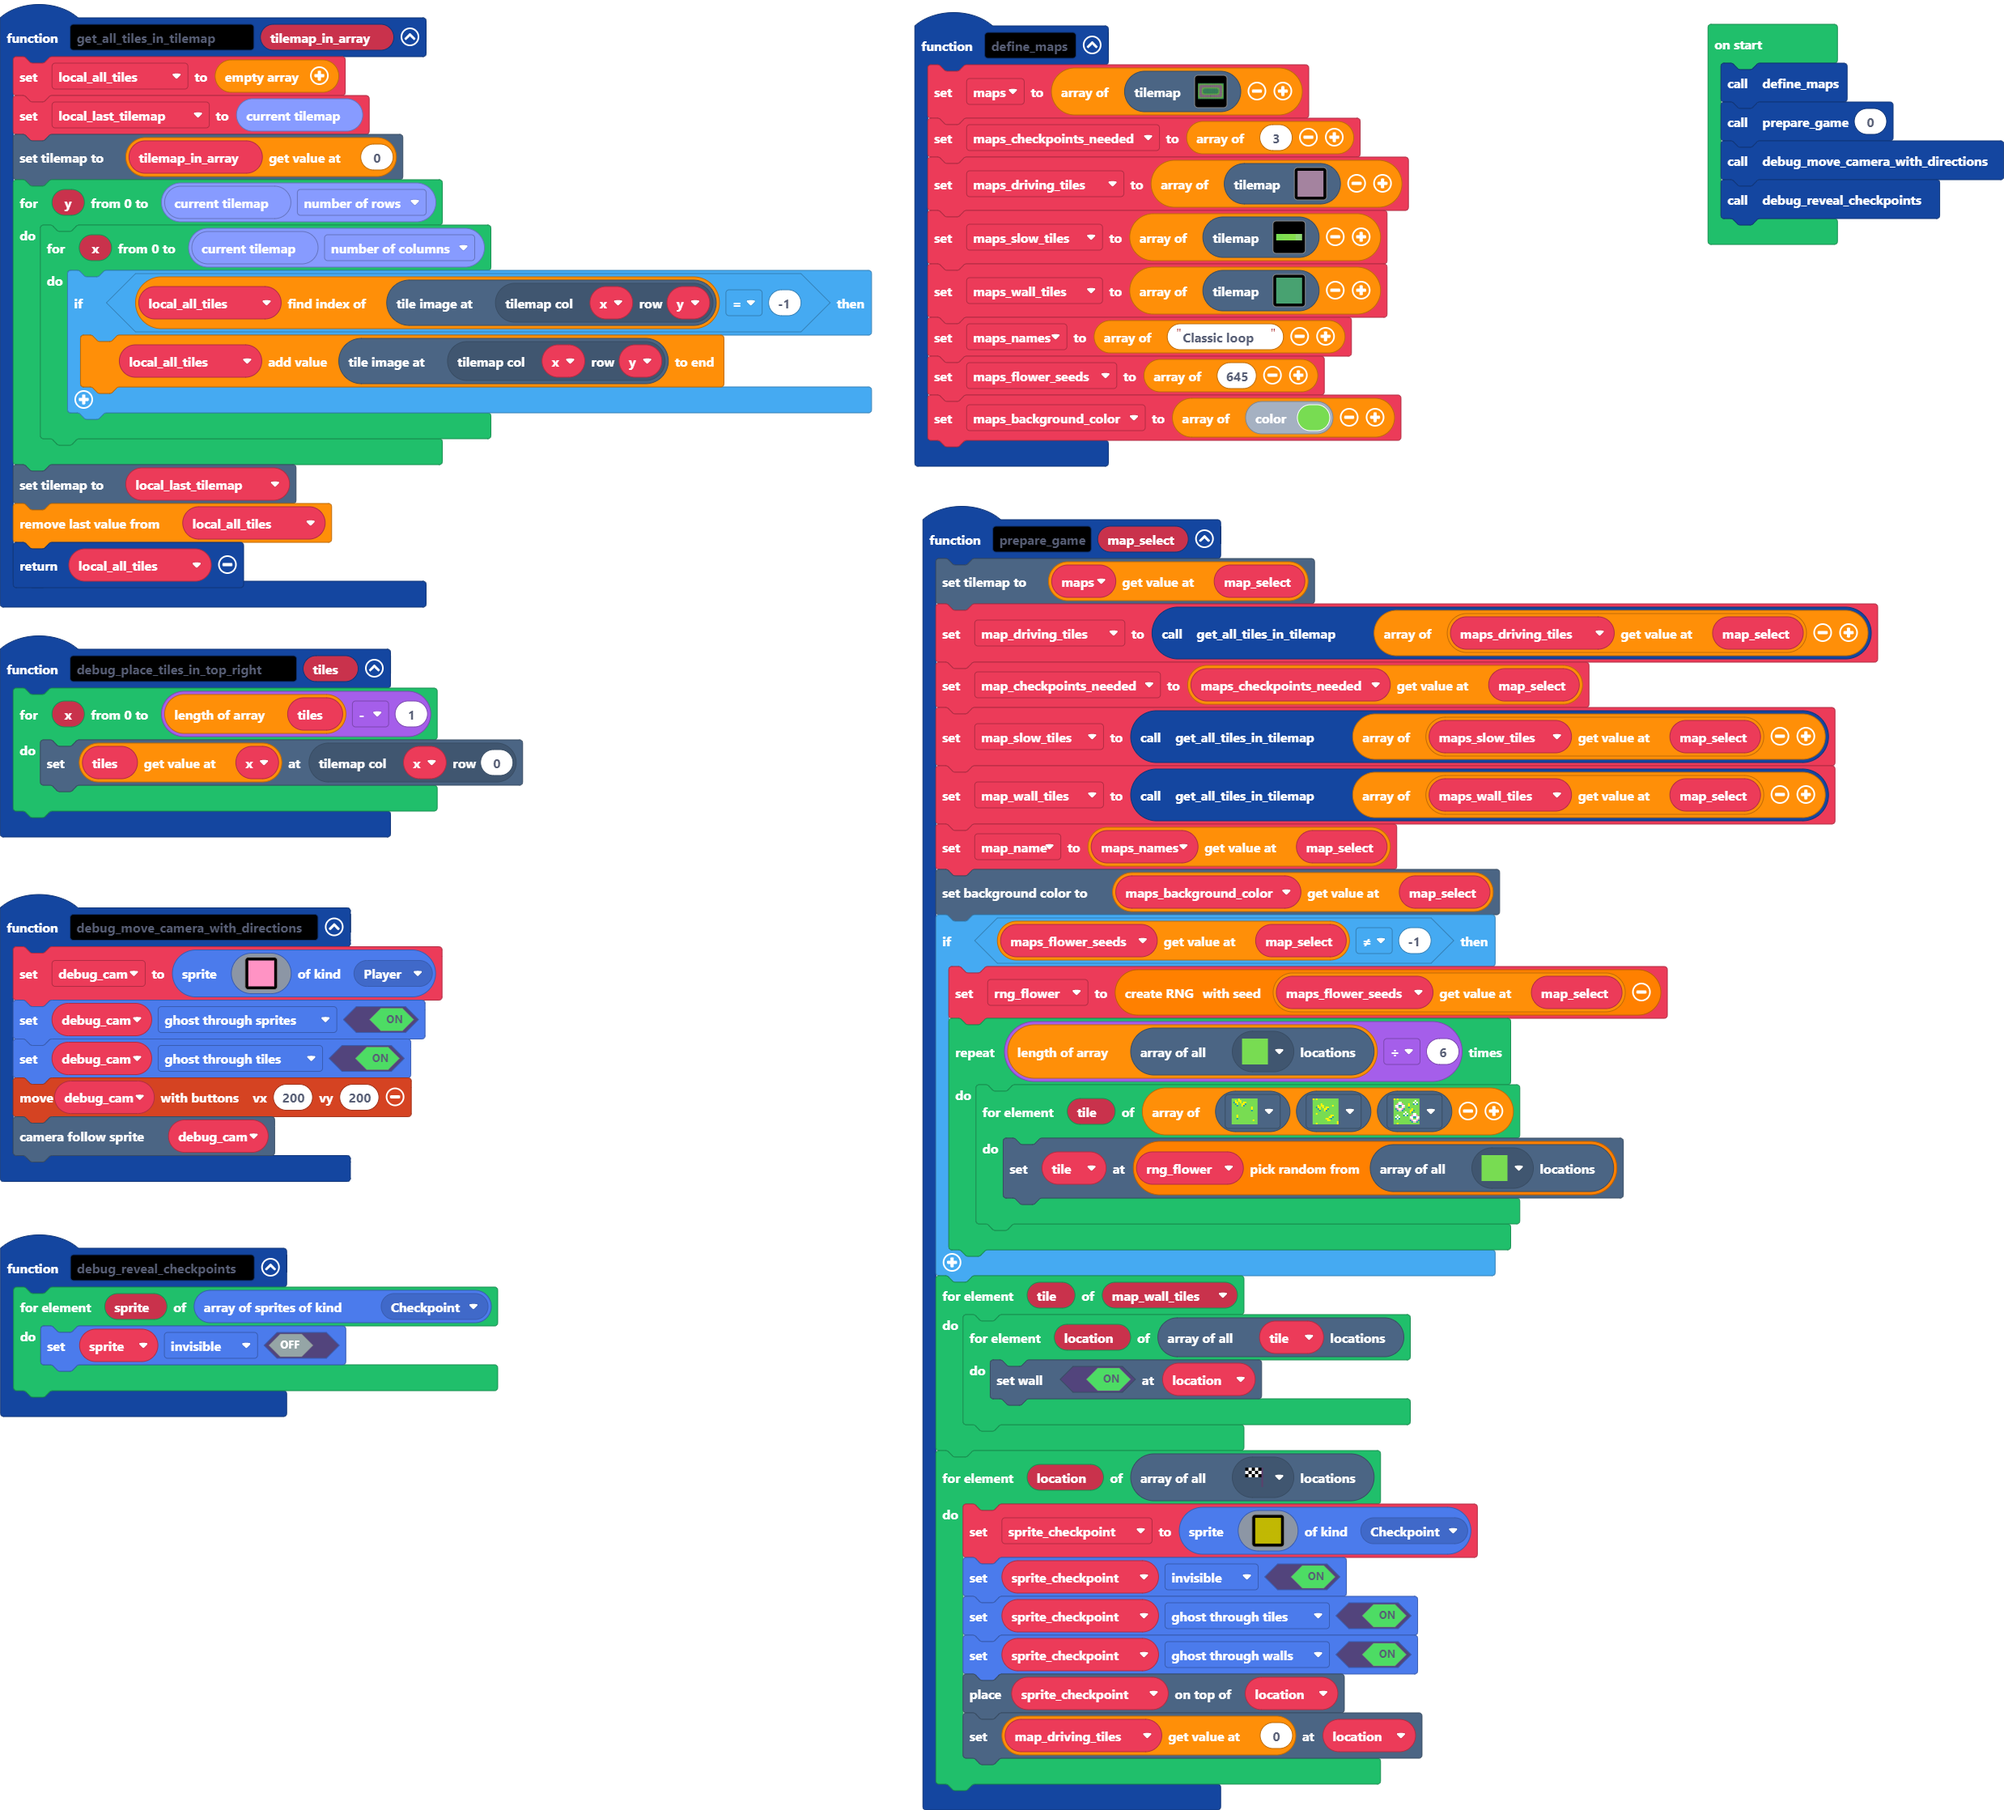
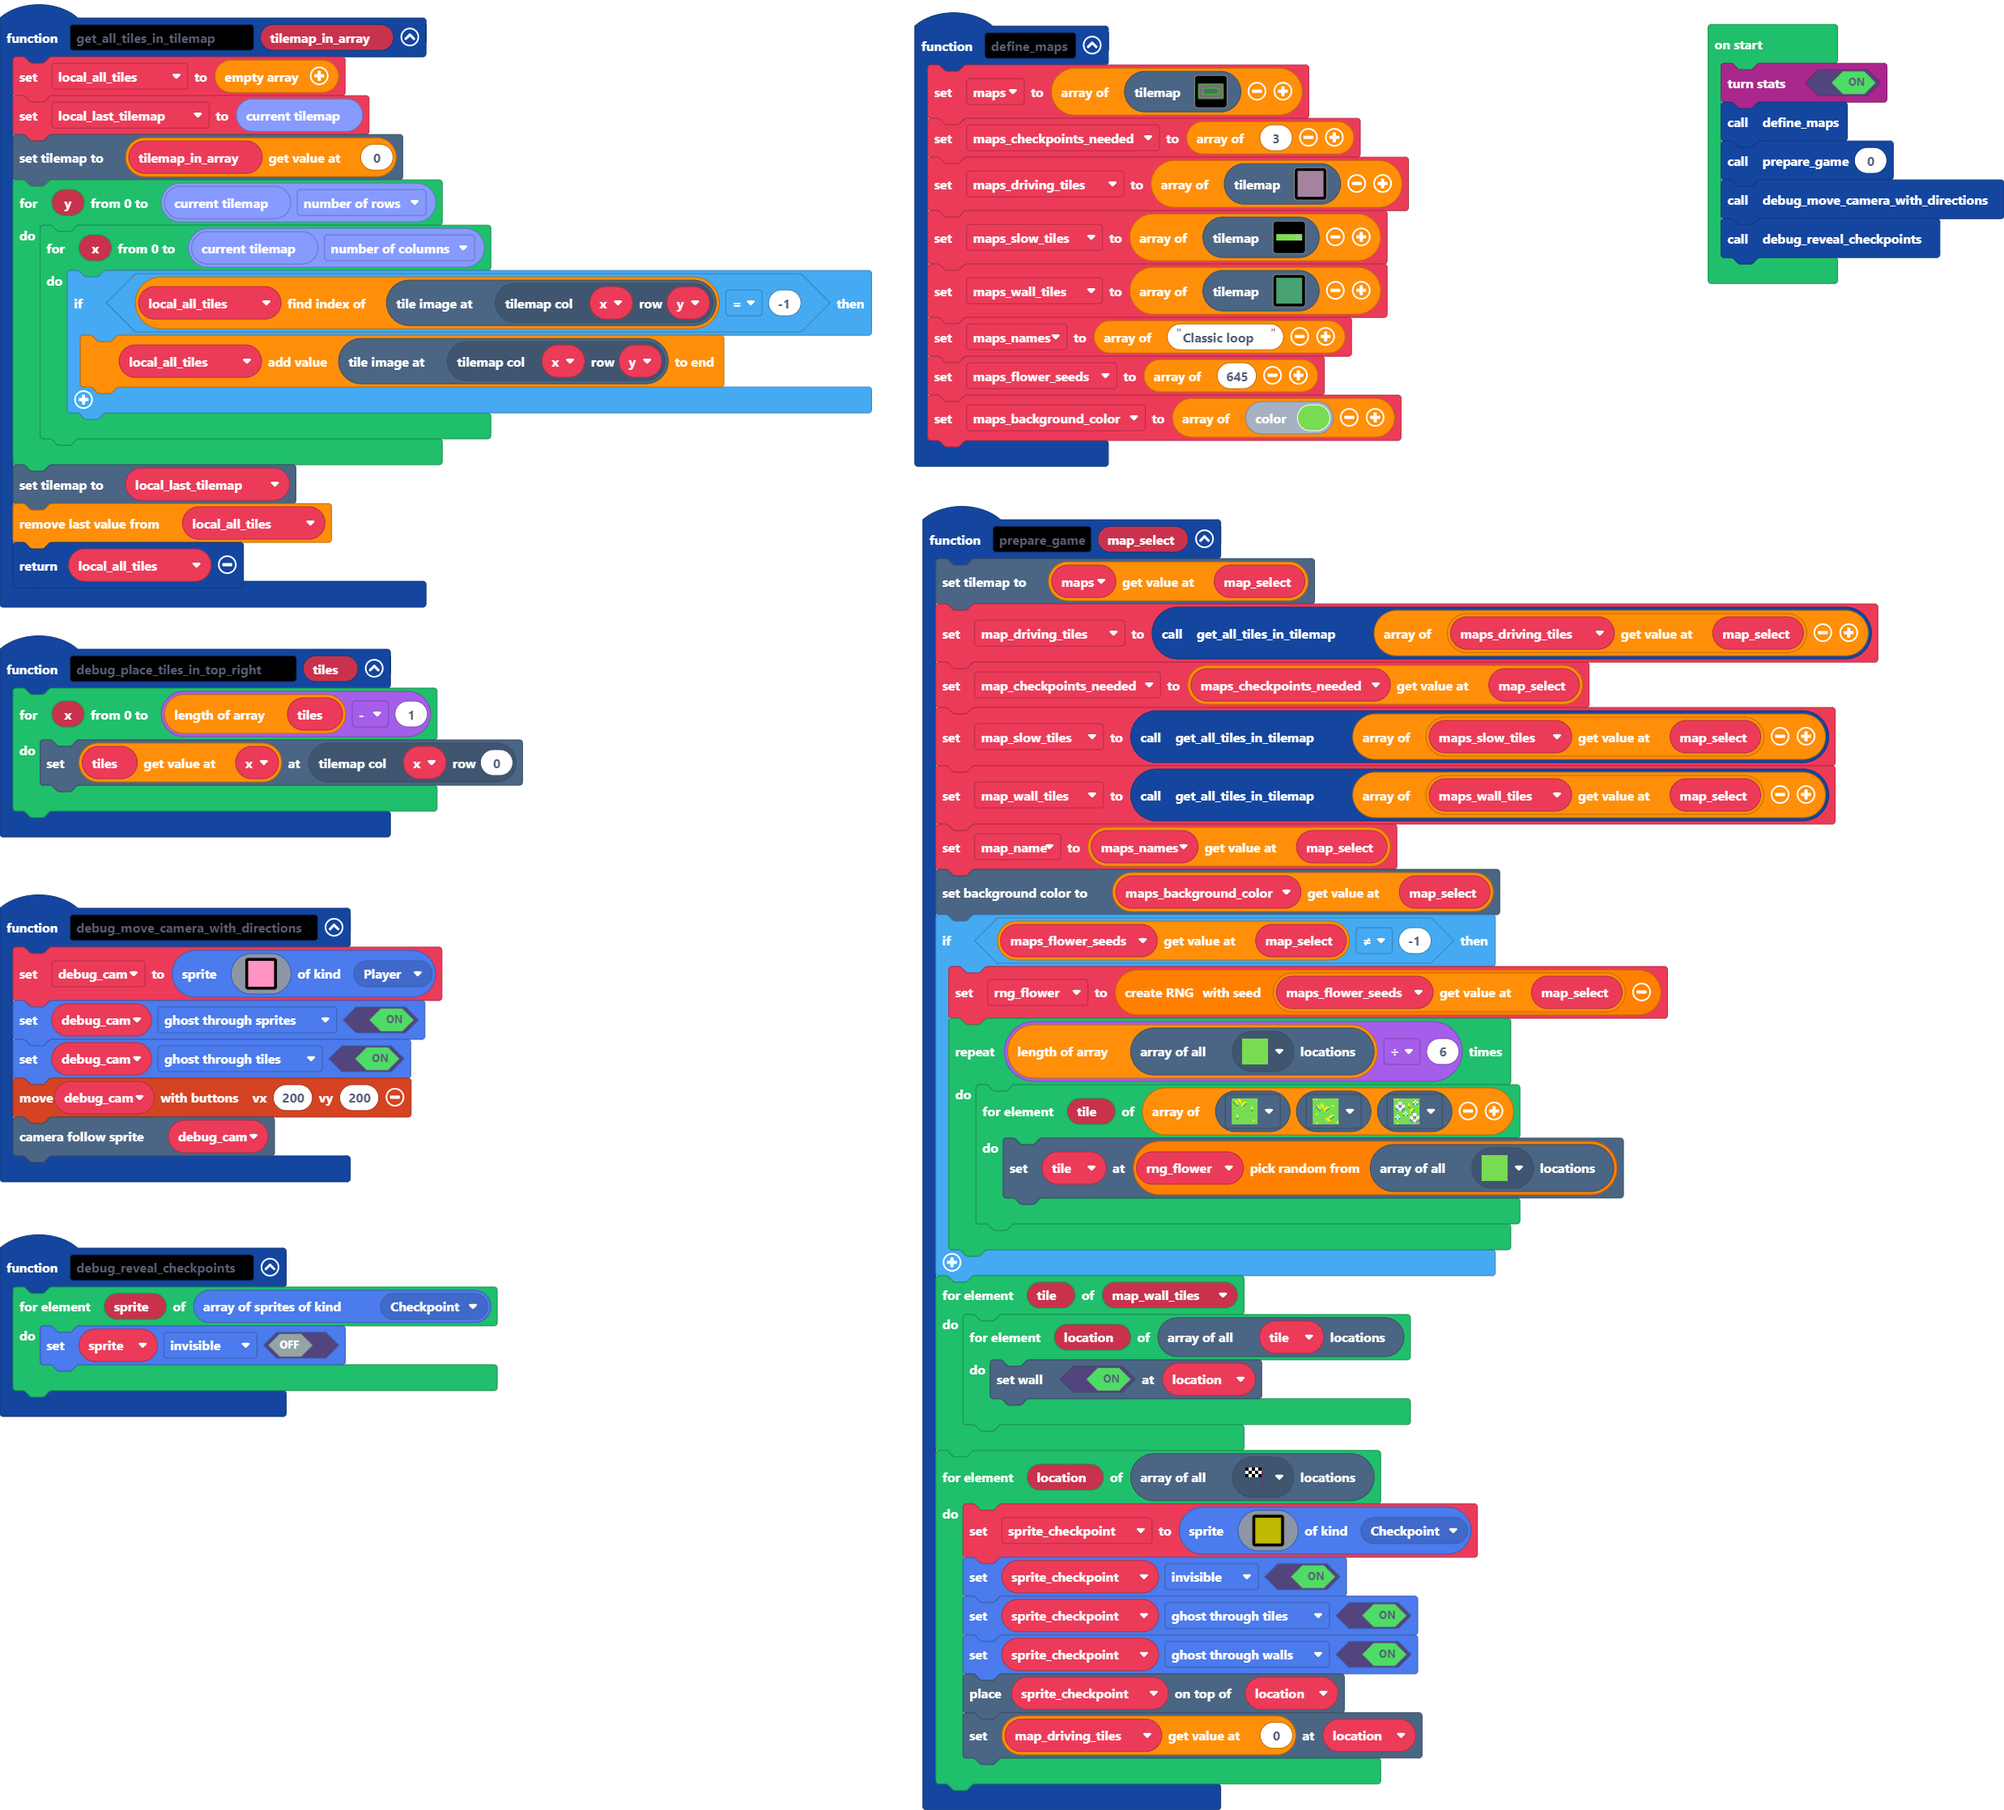
Add stats

diff --git a/main.ts b/main.ts
@@ -91,6 +91,7 @@ let maps_driving_tiles: tiles.TileMapData[] = []
 let map_driving_tiles: Image[] = []
 let maps: tiles.TileMapData[] = []
 let debug_cam: Sprite = null
+stats.turnStats(true)
 define_maps()
 prepare_game(0)
 debug_move_camera_with_directions()
